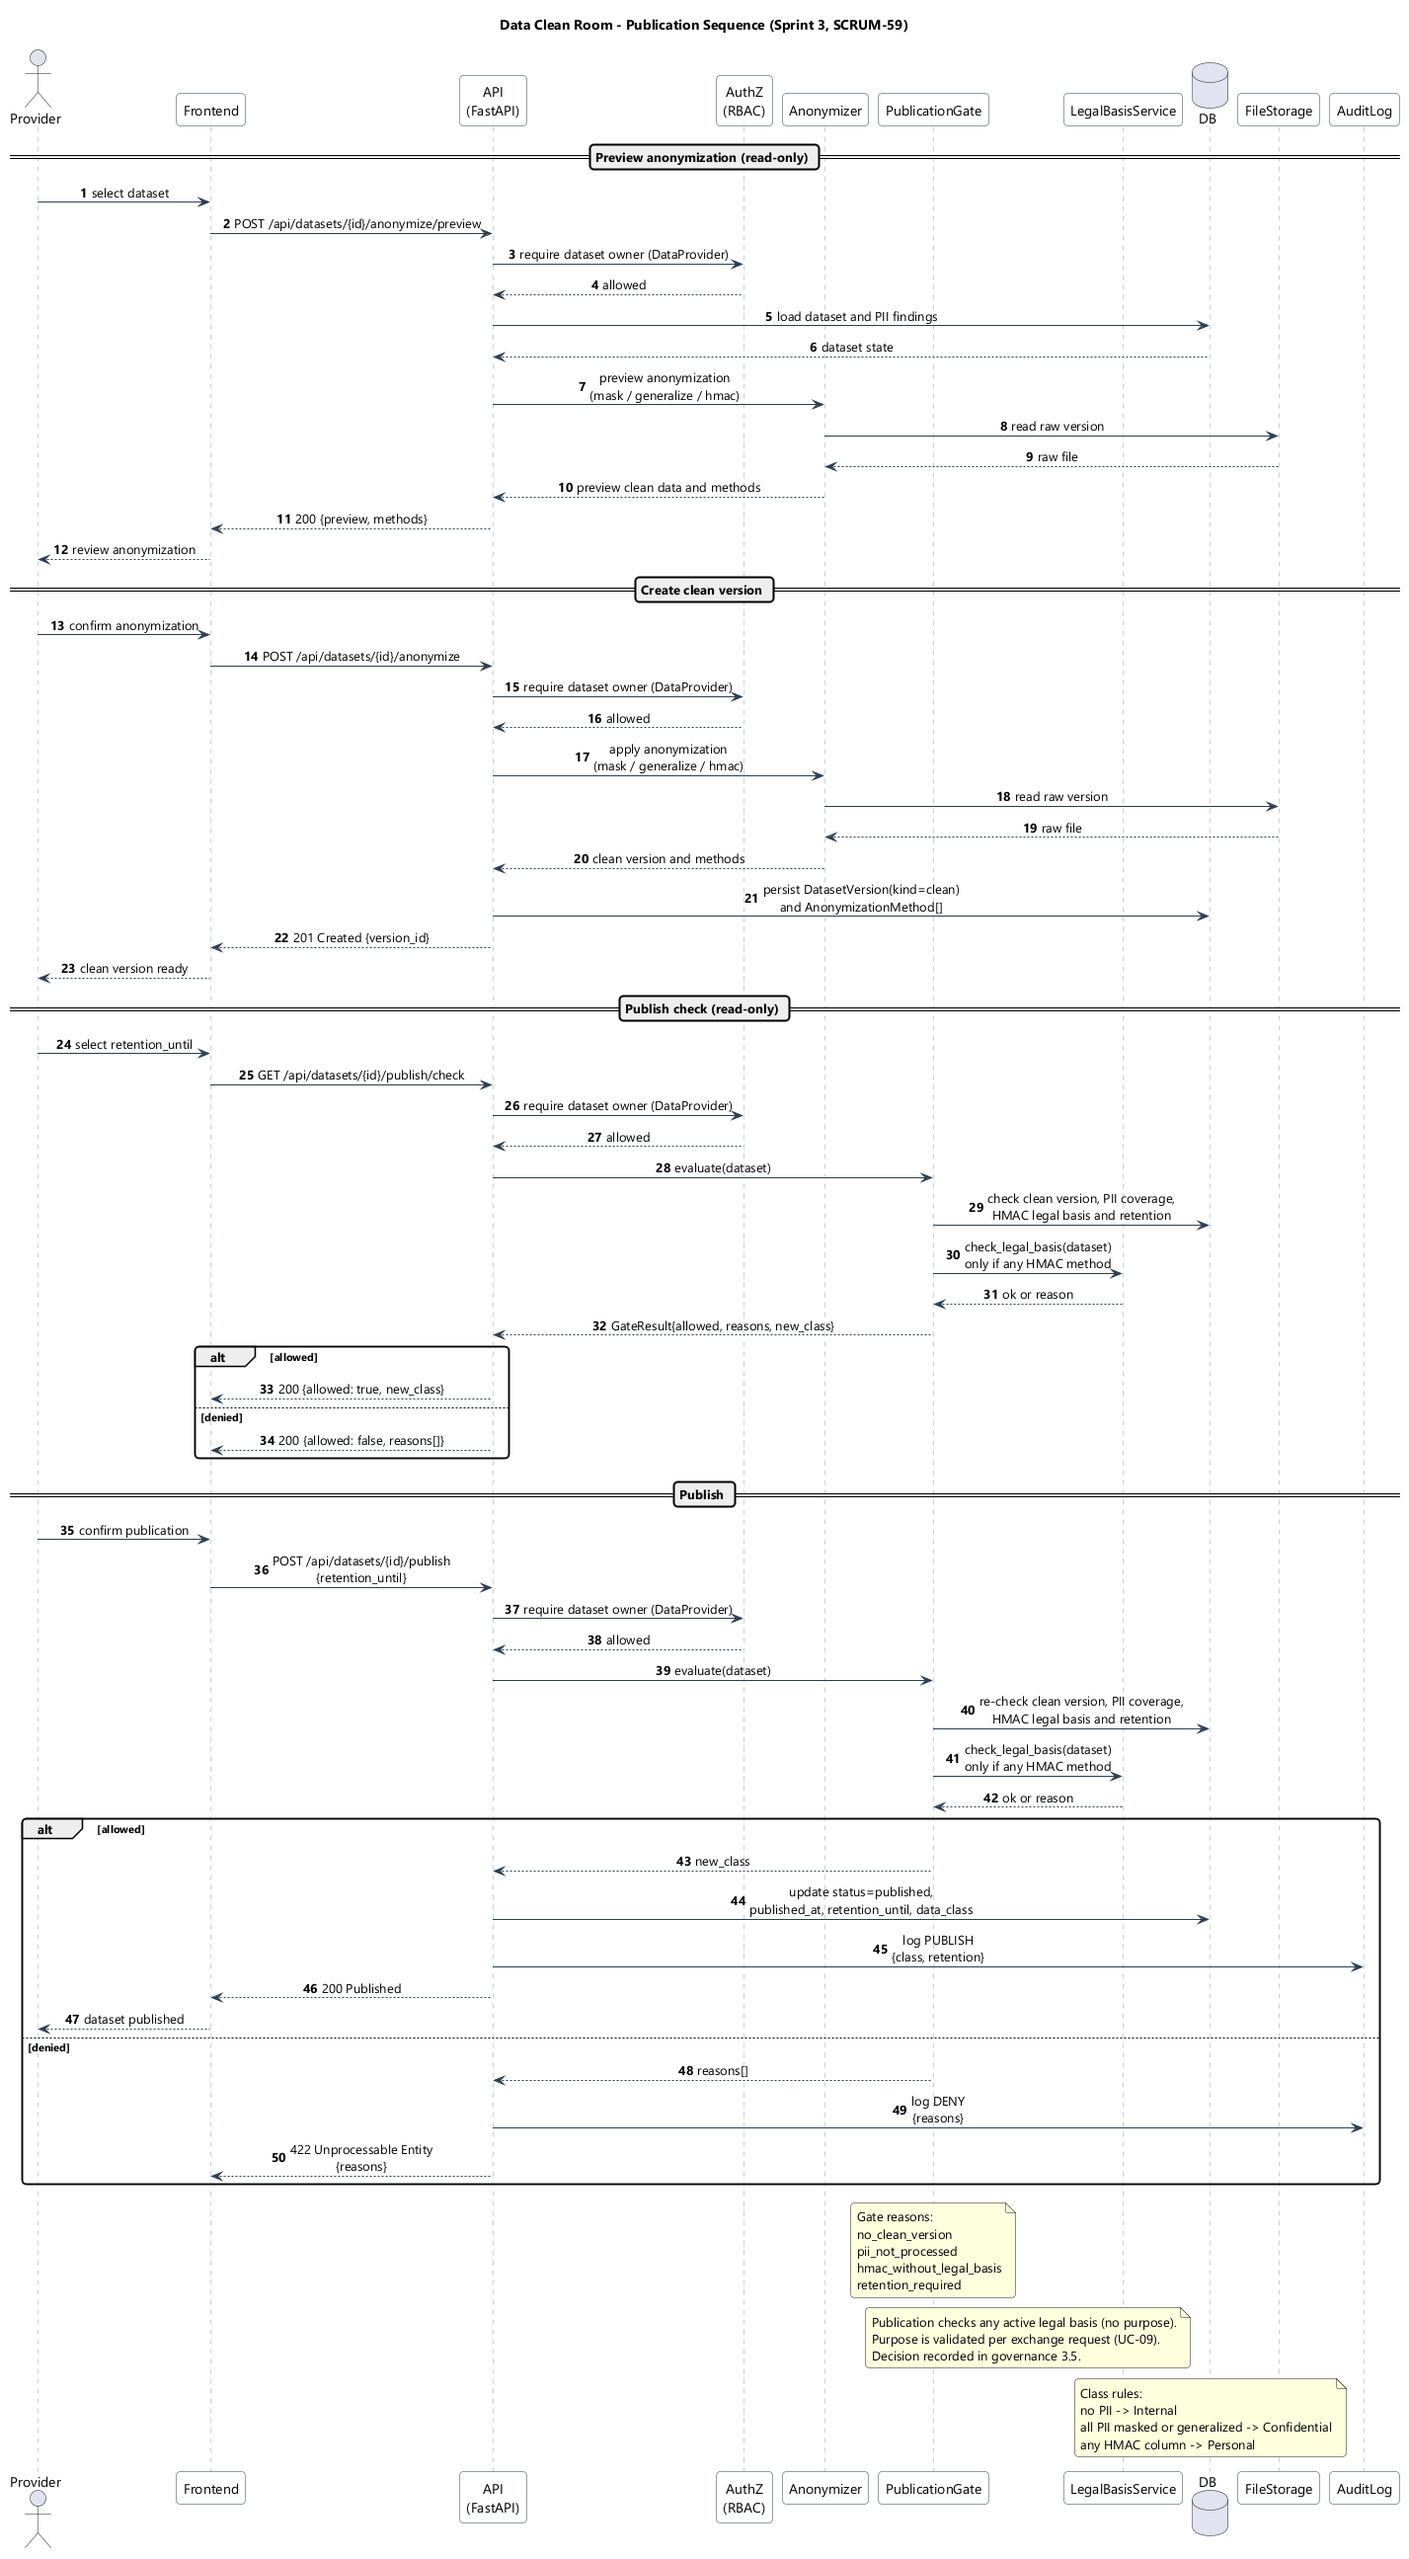
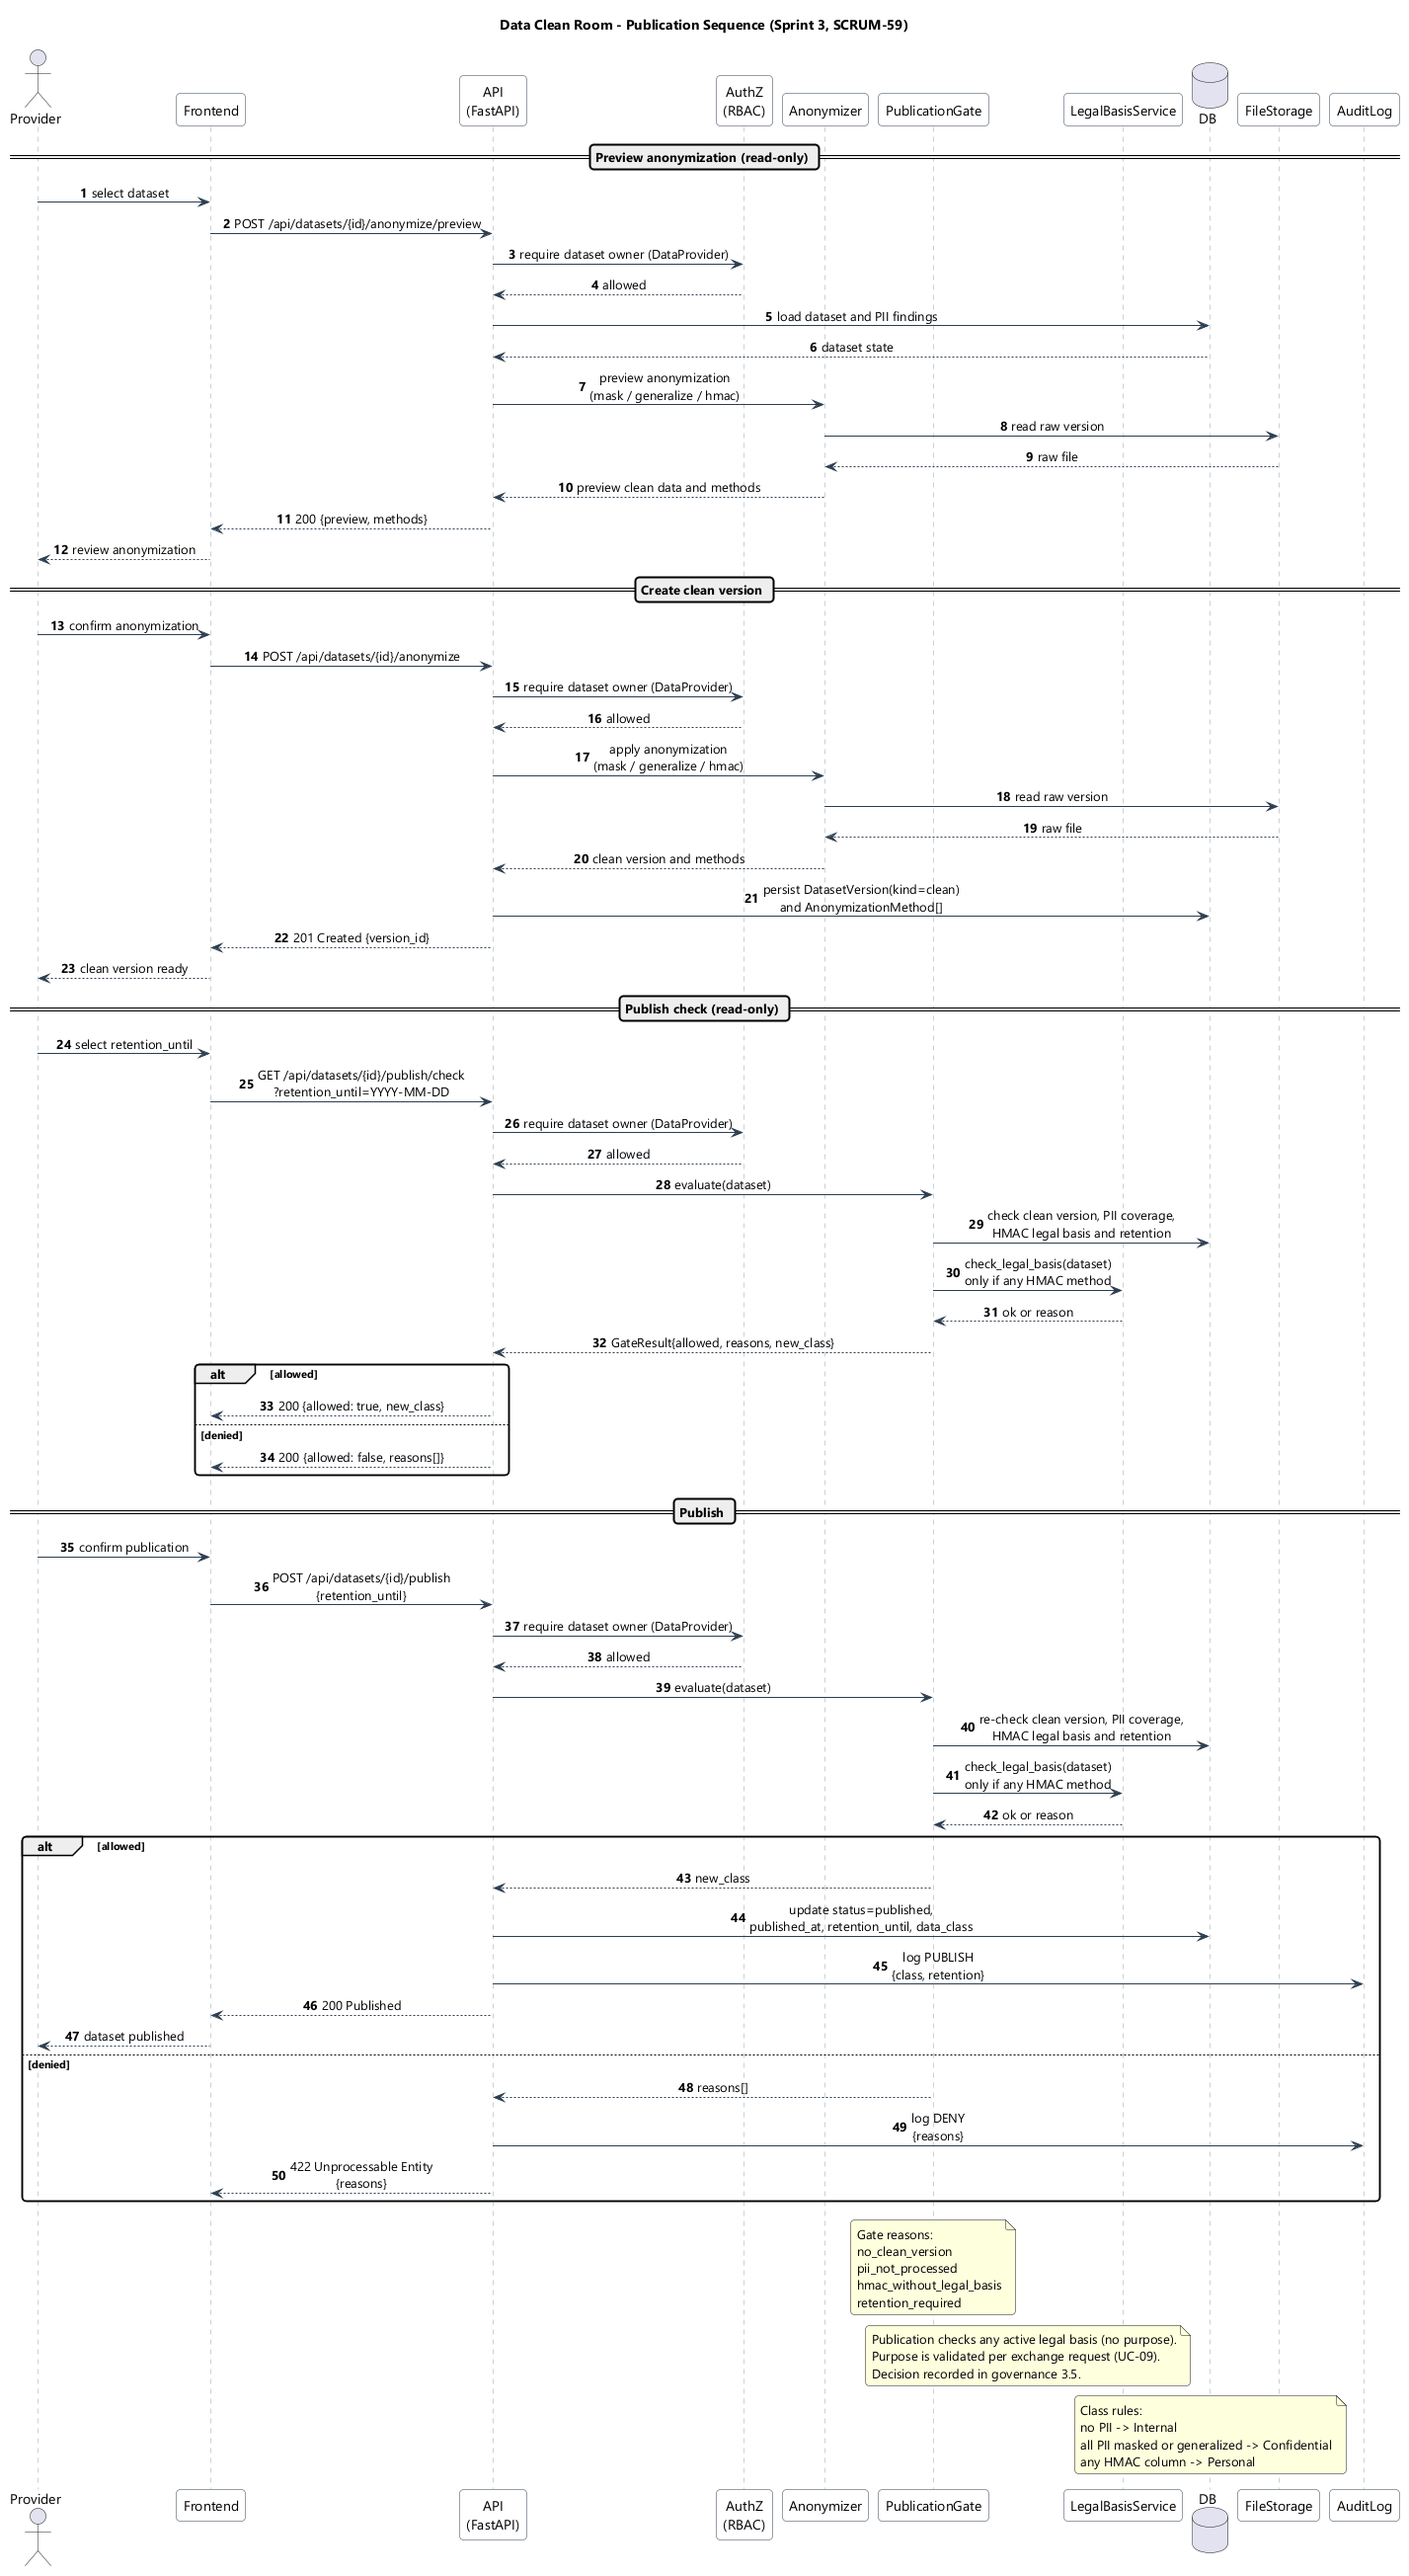
docs(SCRUM-59): pass proposed retention to publish check

diff --git a/docs/architecture/diagram-consistency.md b/docs/architecture/diagram-consistency.md
@@ -24,6 +24,6 @@
 | Причини відмови через згоду | SCRUM-58 | OK | `no_legal_basis`, `revoked`, `expired`, `purpose_mismatch`. |
 | Назви подій аудиту | UC-09 / UC-10 + governance 3.4 | OK / Чернетка | `REQUEST`, `REQUEST_APPROVED`, `REQUEST_REJECTED`, `DOWNLOAD`, `DENY`; governance 3.4 доповнити разом із SCRUM-58. |
 | Поля класів і кратності | `backend/app/models.py` + міграції SCRUM-55/57/58 | Чернетка | `DatasetVersion`, поля публікації та згоди — цільовий стан Спринту 3; перевірити після merge. |
-| Назви ендпоінтів | raw-критерії SCRUM-57 | OK | `POST /api/datasets/{id}/anonymize/preview`, `POST /api/datasets/{id}/anonymize`, `GET /api/datasets/{id}/publish/check`, `POST /api/datasets/{id}/publish`, `POST /api/legal-basis/{id}/revoke`. |
-| `GET /publish/check` не змінює стан | REST + SCRUM-55/57 | OK | Лише читання; створення clean-версії — окремий `POST /anonymize`. |
+| Назви ендпоінтів | raw-критерії SCRUM-57 | OK | `POST /api/datasets/{id}/anonymize/preview`, `POST /api/datasets/{id}/anonymize`, `GET /api/datasets/{id}/publish/check?retention_until=YYYY-MM-DD`, `POST /api/datasets/{id}/publish`, `POST /api/legal-basis/{id}/revoke`. |
+| `GET /publish/check` не змінює стан | REST + SCRUM-55/57 | OK | Лише читання; `retention_until` передається параметром, бо до публікації поле набору ще порожнє; створення clean-версії — окремий `POST /anonymize`. |
 | Місце exchange flow у проєкті | SCRUM-56 (Назар, backend) | OK | Flow не видалено; `sequence-exchange.puml` — контракт для SCRUM-56, а не дублювання реалізації. |
